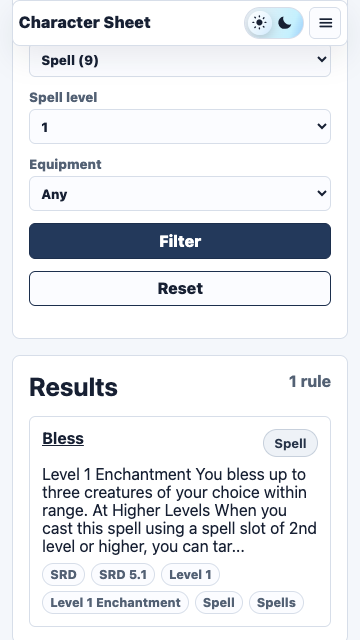
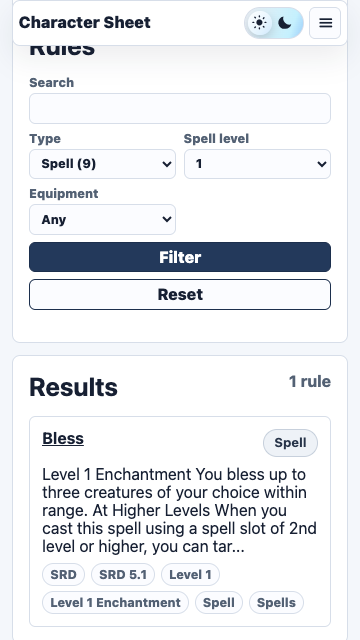
Polish rules screenshots and layout

diff --git a/src/components/pages/Rules/Rules.styles.ts b/src/components/pages/Rules/Rules.styles.ts
@@ -5,10 +5,14 @@ export const rulesStyles = /* css */ `
 
 .rules-main,
 .rules-heading,
-.rules-result-list,
-.rule-mechanic-body {
+.rules-result-list {
   display: grid;
   gap: 1rem;
+}
+
+.rule-mechanic-body {
+  display: grid;
+  gap: 1.1rem;
 }
 
 .rules-kicker {
@@ -22,8 +26,8 @@ export const rulesStyles = /* css */ `
 .rules-filter-form {
   align-items: end;
   display: grid;
-  gap: 0.75rem;
-  grid-template-columns: repeat(auto-fit, minmax(11rem, 1fr));
+  gap: 0.55rem;
+  grid-template-columns: minmax(10rem, 1.35fr) repeat(3, minmax(7rem, 1fr)) auto auto;
 }
 
 .rules-filter-form label {
@@ -39,9 +43,9 @@ export const rulesStyles = /* css */ `
   border-radius: 0.4rem;
   color: var(--heading-colour);
   display: block;
-  margin-block-start: 0.25rem;
-  min-height: 2.2rem;
-  padding: 0.45rem;
+  margin-block-start: 0.18rem;
+  min-height: 2rem;
+  padding: 0.34rem 0.45rem;
   width: 100%;
 }
 
@@ -53,8 +57,8 @@ export const rulesStyles = /* css */ `
   color: var(--action-text-colour);
   cursor: pointer;
   font-weight: 850;
-  min-height: 2.2rem;
-  padding: 0.35rem 0.65rem;
+  min-height: 2rem;
+  padding: 0.28rem 0.65rem;
   text-align: center;
 }
 
@@ -104,6 +108,11 @@ export const rulesStyles = /* css */ `
   margin: 0;
 }
 
+.rule-mechanic-body p {
+  font-size: 1rem;
+  line-height: 1.45;
+}
+
 .rules-tag-list {
   display: flex;
   flex-wrap: wrap;
@@ -122,13 +131,13 @@ export const rulesStyles = /* css */ `
 
 .rule-mechanic {
   border-block-start: 1px solid var(--border-colour);
-  padding-block-start: 0.85rem;
+  padding-block-start: 1rem;
 }
 
 .rule-mechanic-body dl {
   display: grid;
-  gap: 0.4rem;
-  grid-template-columns: repeat(auto-fit, minmax(11rem, 1fr));
+  gap: 0.8rem 1rem;
+  grid-template-columns: repeat(auto-fit, minmax(9rem, 1fr));
   margin: 0;
 }
 
@@ -136,9 +145,48 @@ export const rulesStyles = /* css */ `
   color: var(--muted-text-colour);
   font-size: 0.78rem;
   font-weight: 850;
+  line-height: 1.1;
 }
 
 .rule-mechanic-body dd {
+  line-height: 1.3;
   margin: 0;
+}
+
+@media (max-width: 44rem) {
+  .rules-main {
+    gap: 0.75rem;
+  }
+
+  .rules-heading {
+    gap: 0.35rem;
+  }
+
+  .rules-filter-form {
+    gap: 0.45rem;
+    grid-template-columns: 1fr 1fr;
+  }
+
+  .rules-filter-form label:first-child,
+  .rules-filter-form button,
+  .rules-reset-link {
+    grid-column: 1 / -1;
+  }
+
+  .rules-filter-form label {
+    font-size: 0.78rem;
+  }
+
+  .rules-filter-form input,
+  .rules-filter-form select,
+  .rules-filter-form button,
+  .rules-reset-link {
+    min-height: 1.9rem;
+  }
+
+  .rule-mechanic-body dl {
+    gap: 0.85rem;
+    grid-template-columns: 1fr;
+  }
 }
 `;

diff --git a/scripts/capture-screenshots.ts b/scripts/capture-screenshots.ts
@@ -285,7 +285,7 @@ async function runScreenshotAction(
   }
 
   if (action === "scroll-rule-detail") {
-    await scrollIntoView(page, "#rule-detail-heading", -24);
+    await scrollIntoView(page, "#rule-detail-heading", -96);
     return;
   }
 